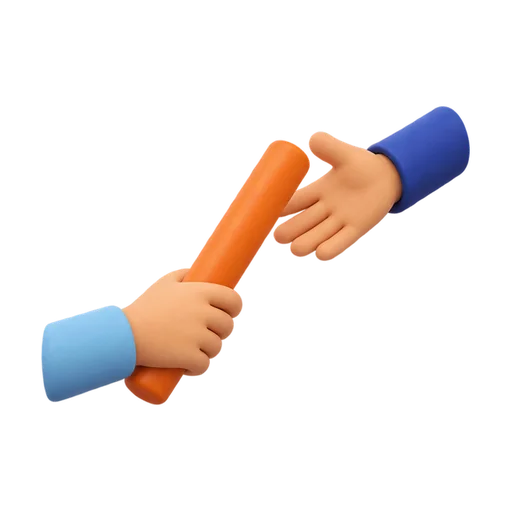
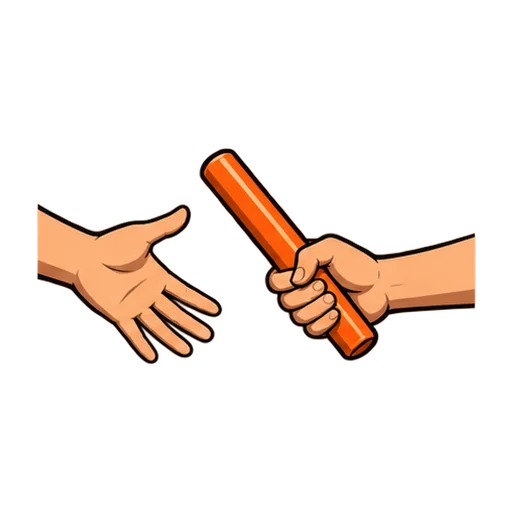
desain(G10-05): empat belas ikon nomor lomba anime (#187)
Pengganti G9-05 bernama sama di public/aset/gambar/nomor/, tanpa latar kotak atau lingkaran; seneng-playon.webp tidak dibuat ulang.

Changed region(s): [[0.0625, 0.1875, 0.9375, 0.8125]]

diff --git a/desain/catatan/G10-05.md b/desain/catatan/G10-05.md
@@ -1,0 +1,41 @@
+# G10-05 Ilustrasi nomor lomba
+
+| Berkas | Ukuran | Format | KB |
+|---|---|---|---:|
+| `lari-pendek.webp` | 512 × 512 | WebP alfa | 41,95 |
+| `lari-menengah.webp` | 512 × 512 | WebP alfa | 35,96 |
+| `jalan-cepat.webp` | 512 × 512 | WebP alfa | 34,25 |
+| `estafet.webp` | 512 × 512 | WebP alfa | 22,49 |
+| `lompat-jauh.webp` | 512 × 512 | WebP alfa | 36,67 |
+| `lompat-tinggi.webp` | 512 × 512 | WebP alfa | 37,12 |
+| `tolak-peluru.webp` | 512 × 512 | WebP alfa | 21,40 |
+| `lempar-lembing.webp` | 512 × 512 | WebP alfa | 21,94 |
+| `lempar-cakram.webp` | 512 × 512 | WebP alfa | 32,63 |
+| `frog-jump.webp` | 512 × 512 | WebP alfa | 37,08 |
+| `turbo-throw.webp` | 512 × 512 | WebP alfa | 23,03 |
+| `kangas-escape.webp` | 512 × 512 | WebP alfa | 41,97 |
+| `formula-1.webp` | 512 × 512 | WebP alfa | 39,20 |
+| `trilomba.webp` | 512 × 512 | WebP alfa | 25,05 |
+
+Prompt dasar dan tambahan tetap berikut dipakai bersama adegan di tabel. Garis tinta, bayangan keras, dan palet mengacu pada rujukan lintasan.
+
+> 2D cel-shaded sports anime illustration, school-age track athletes, dynamic sprint poses, bold linework, crisp shadow shapes, low-angle track composition, brand-colored jerseys. Clean background, no text, no letters, no numbers, no logos, no watermark, modest sportswear, Indonesian school kids, original characters.
+
+| Berkas | Ringkasan arahan gambar |
+|---|---|
+| `lari-pendek.webp` | Tokoh D mendorong diri keluar dari balok start dalam posisi rendah. |
+| `lari-menengah.webp` | Tokoh C berlari di tikungan lintasan merah bata. |
+| `jalan-cepat.webp` | Tokoh A melangkah cepat, lutut tumpu lurus dan tumit depan turun. |
+| `estafet.webp` | Sepasang tangan menjulurkan dan menerima tongkat estafet oranye. |
+| `lompat-jauh.webp` | Tokoh B melayang di atas bak pasir dengan kaki ke depan. |
+| `lompat-tinggi.webp` | Tokoh C melengkung ke belakang melewati mistar gaya flop. |
+| `tolak-peluru.webp` | Tangan menahan peluru logam abu-abu, siap menolak. |
+| `lempar-lembing.webp` | Lembing melesat serong dengan sapuan biru. |
+| `lempar-cakram.webp` | Cakram biru-krem berputar bersama sapuan oranye. |
+| `frog-jump.webp` | Tokoh D melompat dengan lutut ditekuk dan telapak tangan terjulur. |
+| `turbo-throw.webp` | Turbo busa dengan ujung oranye dan sirip biru melesat diagonal. |
+| `kangas-escape.webp` | Tokoh A melompati gawang busa rendah. |
+| `formula-1.webp` | Dua kerucut dan gawang mini pada jalur merah bata berkelok. |
+| `trilomba.webp` | Sepatu lari, bak pasir dan peluru membentuk susunan segitiga. |
+
+Logo resmi dari `sumber/logo/logo-milklife-athletics-challenge.webp` ditempel dengan Pillow sesudah ilustrasi selesai. Alfa asli dipertahankan, warna tidak diubah, dan lebar sasaran sekitar 18–22% dari dada yang terlihat. Sudut stempel disesuaikan dengan arah bahu. Logo ditambahkan pada dada yang tampak di lari pendek, lari menengah, jalan cepat, lompat tinggi, frog jump, dan Kanga’s Escape. Dada B pada lompat jauh tertutup lengan. Siluet keempat belas ikon diperiksa pada 64 × 64 piksel.
